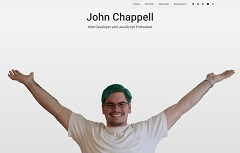
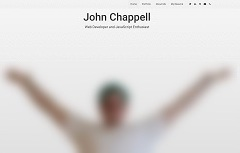
Update site to use my new name.

diff --git a/index.html b/index.html
@@ -3,10 +3,10 @@
 
 <head>
 	<meta http-equiv="Content-Type" content="text/html; charset=utf-8" />
-	<meta name="description" content="Portfolio Website for the awesome frontend engineer, John Chappell." />
-	<meta name="author" content="John Chappell" />
+	<meta name="description" content="Portfolio Website for the awesome frontend engineer, Jensen Chappell." />
+	<meta name="author" content="Jensen Chappell" />
 	<meta name="viewport" content="width=device-width, initial-scale=1">
-	<title>John Chappell - Frontend Engineer</title>
+	<title>Jensen Chappell - Frontend Engineer</title>
 	<link rel="stylesheet" href="https://use.fontawesome.com/releases/v5.2.0/css/solid.css" integrity="sha384-wnAC7ln+XN0UKdcPvJvtqIH3jOjs9pnKnq9qX68ImXvOGz2JuFoEiCjT8jyZQX2z" crossorigin="anonymous">
 	<link rel="stylesheet" href="https://use.fontawesome.com/releases/v5.2.0/css/brands.css" integrity="sha384-nT8r1Kzllf71iZl81CdFzObMsaLOhqBU1JD2+XoAALbdtWaXDOlWOZTR4v1ktjPE" crossorigin="anonymous">
 	<link rel="stylesheet" href="https://use.fontawesome.com/releases/v5.2.0/css/fontawesome.css" integrity="sha384-HbmWTHay9psM8qyzEKPc8odH4DsOuzdejtnr+OFtDmOcIVnhgReQ4GZBH7uwcjf6" crossorigin="anonymous">
@@ -18,7 +18,7 @@
 	<div class="above-fold">
 		<header class="website-header">
 			<div class="website-header__title">
-				<h1 class="website-header__title-heading">John Chappell</h1>
+				<h1 class="website-header__title-heading">Jensen Chappell</h1>
 				<span class="website-header__title-subheading">Frontend Engineer</span>
 			</div>
 			<div class="website-header__content">
@@ -122,8 +122,8 @@
 		<h2 class="about__title">About Me</h2>
 		<div class="about">
 			<div class="about__content">
-				<p>I am <span id="age"></span> years old, currently living in Wylie, TX. I have a amazing wife who works really hard making iPhone Applications, and puts up with me. I have one amazing daughter who is growing up fast. I enjoy Web development/design blogs, designing
-					board games, and spending time with my family and cats.<p>
+				<p>I am <span id="age"></span> years old, currently living in Wylie, TX. I have a amazing partner who works really hard making iPhone Applications, and puts up with me. I have two amazing daughters who are growing up fast. I enjoy Web development/design blogs, designing
+					board games, and spending time with my family.<p>
 						<p>As a child, I had a thing for trying to understand how the video games I played were made. I grew up on Super Mario Brothers and Zelda. I used to have notebooks of designed levels for the games I played. Later in my teenage years, I
 							stumbled
 							across a TRS-80 CoCo II for twelve dollars where I learned my first programming language, BASIC. Now I had the ability to create these beautiful games... kind of. It was mostly text-based and 4-bit graphics. At most, I could make the
@@ -145,7 +145,7 @@
 	<footer class="footer">
     <div class="footer__content">
         <p>© Copyright 2011 - <span id="copyright_year"></span>
-            by John Chappell. All rights reserved. Any content on this site may only be used with explicit permission.
+            by Jensen Chappell. All rights reserved. Any content on this site may only be used with explicit permission.
         </p>
     </div>
 </footer>

diff --git a/gulpfile.js b/gulpfile.js
@@ -1,14 +1,15 @@
-const gulp = require('gulp');
+const {src, watch, dest, series, task, parallel} = require('gulp');
 const sass = require('gulp-sass');
 const autoprefixer = require('gulp-autoprefixer');
 const browserSync = require('browser-sync').create();
+
 
 const config = {
 	sass: './style/**/*.scss',
 	sassDest: './style'
 }
 
-function serve() {
+function serveInit() {
 	return browserSync.init({
 		server: {
 			baseDir: "./"
@@ -17,31 +18,34 @@ function serve() {
 }
 
 function css() {
-	return gulp.src(config.sass)
+	return src(config.sass)
 		.pipe(sass().on('error', sass.logError))
 		.pipe(autoprefixer({
-			browsers: ['last 2 versions'],
 			cascade: false
 		}))
-		.pipe(gulp.dest(config.sassDest))
+		.pipe(dest(config.sassDest))
 		.pipe(browserSync.stream({match: '**/*.css'}));
 }
 
 function cssWatch() {
-	gulp.watch(config.sass, ['css']);
+	watch(config.sass, series(['css']));
 }
 
 function htmlWatch() {
-	gulp.watch(['**/*.html', '!(node_modules)/**/*']).on('change', browserSync.reload);
+	watch(['**/*.html', '!(node_modules)/**/*']).on('change', browserSync.reload);
 }
 
 function jsWatch() {
-	gulp.watch(['**/*.js', '!(node_modules)/**/*']).on('change', browserSync.reload);
+	watch(['**/*.js', '!(node_modules)/**/*']).on('change', browserSync.reload);
 }
 
+const serve = parallel([serveInit, cssWatch, htmlWatch, jsWatch]);
 
-gulp.task('serve', ['css:watch', 'html:watch', 'js:watch'], serve);
-gulp.task('css', css);
-gulp.task('css:watch', cssWatch);
-gulp.task('html:watch', htmlWatch);
-gulp.task('js:watch', jsWatch);
+
+module.exports = {
+	default: serve,
+	serve,
+	htmlWatch,
+	css,
+	cssWatch,
+}

diff --git a/style/style.css b/style/style.css
@@ -101,17 +101,13 @@ body {
 .profile {
   -ms-flex-negative: 0;
   flex-shrink: 0;
-  width: 95vmin;
-  height: 95vmin;
+  width: 60vmin;
+  height: 60vmin;
   margin: auto;
-  background: url("/asset/profile.jpg") no-repeat;
+  border-radius: 50%;
+  background: url("/asset/profile.png") no-repeat, rgba(99, 218, 56, 0.25);
   background-position: top;
   background-size: cover; }
-  @media (min-device-pixel-ratio: 2), (-webkit-min-device-pixel-ratio: 2), (min-resolution: 192dpi) {
-    .profile {
-      background: url("/asset/profile_2x.jpg") no-repeat;
-      background-position: top;
-      background-size: cover; } }
 
 .above-fold {
   position: relative; }

diff --git a/style/style.scss b/style/style.scss
@@ -110,23 +110,14 @@ body {
 .profile {
   flex-shrink: 0;
 
-  width: 95vmin;
-  height: 95vmin;
+  width: 60vmin;
+  height: 60vmin;
   margin: auto;
-
-  background: url("/asset/profile.jpg") no-repeat;
+  border-radius: 50%;
+ 
+  background: url("/asset/profile.png") no-repeat, rgba(99, 218, 56, 0.25);
   background-position: top;
   background-size: cover;
-
-  @media
-  (min-device-pixel-ratio: 2),
-  (min-resolution: 192dpi) {
-      & {
-          background: url("/asset/profile_2x.jpg") no-repeat;
-          background-position: top;
-          background-size: cover;
-      }
-  }
 }
 
 .above-fold {
